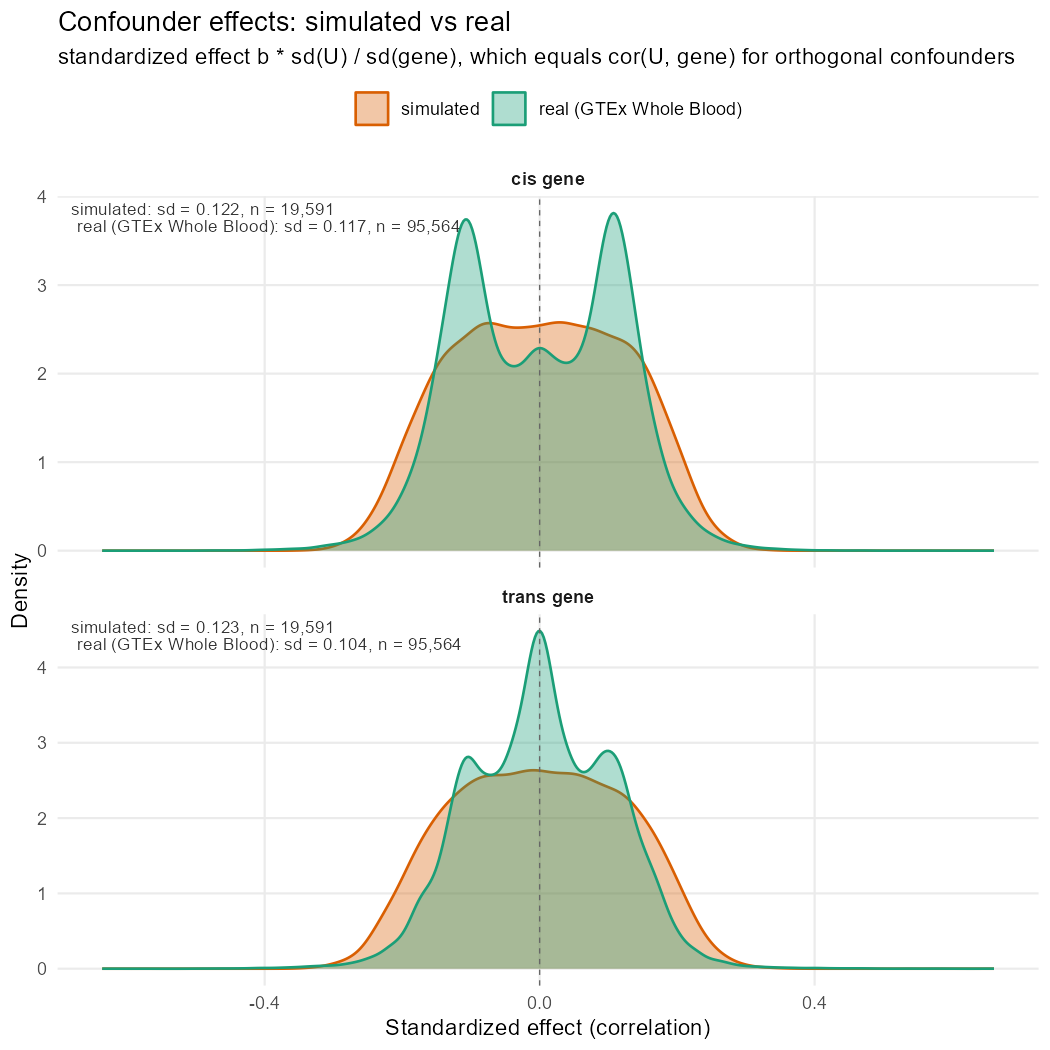
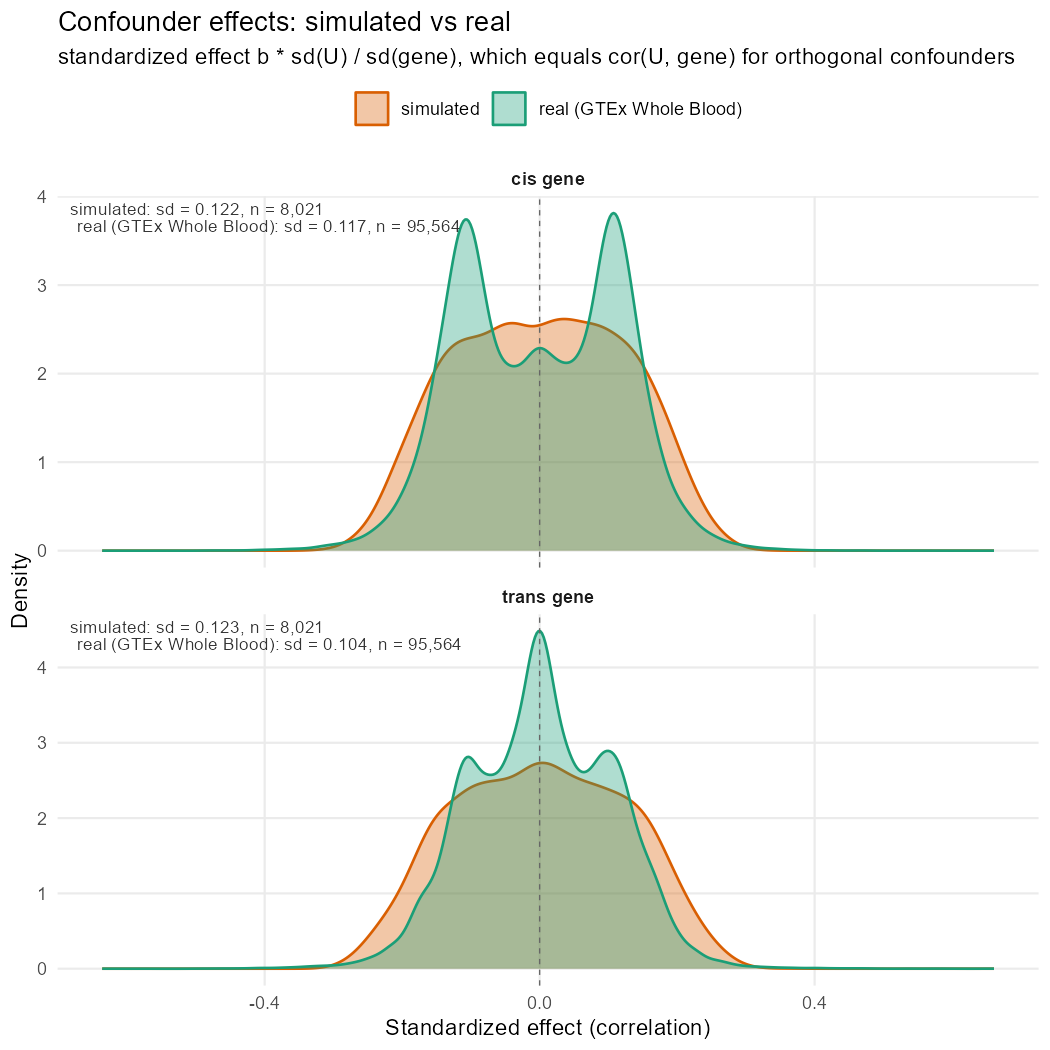
Document confounder selection diagnostics
Expand `METHODS.md` with a deeper analysis of confounder selection behavior in the revised simulation, including why n=50 remains problematic, why recall is lower than in the published study, and how the private covariate pool understates performance. Also add/update supporting plots for the confounder effect and R² comparisons.

diff --git a/bioinfo_revision/METHODS.md b/bioinfo_revision/METHODS.md
@@ -333,6 +333,35 @@ roughly `0.2 / pool_size`, so a 2.5× smaller pool moves the z cutoff only from
 4.42 to 4.22 — measured, the common-child pass rate at n = 1000 went 0.557 (50
 replicates) to 0.547 (20). What shrinks is per-cell precision, not sensitivity.
 
+### What the two settings actually select
+
+Measured end to end on the n = 50 group: 300 trios, 7,967 pool columns, **30.2
+min for both settings** from the single `get.conf.trios()` call.
+
+| setting | median selected/trio | range | trios with none |
+| --- | --- | --- | --- |
+| CS-q | 1 | 0–3 | 9 |
+| CS-α | **82** | 61–105 | 0 |
+
+Neither is close to the ~26 confounders actually acting on a trio, and they fail
+in opposite directions:
+
+- **CS-q is far too conservative here.** A q-value FDR across 300 × 7,967 ≈ 2.4M
+  tests leaves a median of one selected covariate per trio. Most of a trio's true
+  confounders go unadjusted.
+- **CS-α is unusable at n = 50.** α = 0.01 over 7,967 columns yields ~80 false
+  positives by construction (`7967 × 0.01 = 80`, against 82 observed), and at
+  n = 50 almost no true confounder clears p < 0.01 anyway — that needs
+  `|r| > 0.36`, while the true per-confounder effect is ~0.12. So essentially all
+  82 are false positives, handed to MRGN and MRPC as 82 covariates against 50
+  observations. Every such fit is rank-deficient, which is what `safely()` in
+  `run.group()` is absorbing.
+
+Both are consequences of the pooled private-covariate design rather than of the
+methods: each trio is scored against 7,967 columns of which ~28 are its own. The
+n = 50 CS-α arm in particular should be treated as uninformative rather than as a
+measurement of how MRGN or MRPC behave.
+
 ### Confounder selection has no power at n = 50
 
 `get.conf.trios()` finds no intermediate or common child variables in the n = 50
@@ -373,17 +402,20 @@ went 0.063 → 0.121 and `rZ` 0.130 → 0.268 against the pre-recalibration run 
 and the required sample sizes fell accordingly. Widening `b.snp` is the main
 lever, but the lower `U` bound pushes the same way (less `U` variance in `T1`
 leaves the SNP a larger share), and the two cannot be separated from the two
-saved runs. `Z` now
-clears the pooled threshold from about n = 273, so the n = 300, 670 and 1000
-groups detect common children in 33%, 49% and 56% of trios.
+saved runs. `Z` now clears the pooled threshold from about n = 260, so the
+n = 300, 670 and 1000 groups detect common children in 36%, 51% and 55% of trios.
 
-**The n = 50 group no longer returns nothing.** 6.3% of its trios now have a
-detectable common child, so `get.conf.trios()` should no longer raise "No common
-child or intermediate variables detected" and `select.confounders()` should no
-longer fall back to `filter_int_child = FALSE`. Confirm this on the next
-inference run via the `CSq.filter_int_child` / `CSa.filter_int_child` columns.
+**The n = 50 group no longer returns nothing — confirmed by running it.** 7.3% of
+its trios now carry a detectable common child, which is enough that
+`get.conf.trios()` passes the filtering step instead of raising "No common child
+or intermediate variables detected", and `select.confounders()` no longer falls
+back to `filter_int_child = FALSE`. This was the symptom that started the
+revision.
+
 Detection at n = 50 is still poor in absolute terms, so the group's confounder
-sets will contain colliders for most trios and should be caveated.
+sets will contain colliders for most trios and should be caveated in the
+analysis. Check `CSq.filter_int_child` / `CSa.filter_int_child` on each run:
+they record whether the fallback fired.
 
 Both blocks are capped above by `|cor(V1, T1)|`, since `W` and `Z` are downstream
 of `T1` and correlation multiplies along a path. Measured at n = 1000:
@@ -459,7 +491,241 @@ group should be caveated or excluded in the analysis.**
 
 ---
 
-## 5. Diagnostics recorded per dataset
+## 5. Why confounder selection now looks worse than in the published study
+
+The pre-revision simulation reported confounder-selection recall above 90%
+(`MRGN_v8.pdf`, lines 219–222: ">90% when the number of true confounders per trio
+was modest (<25)", dropping "to approximately 65% for trios with many (>25)").
+The revised simulation gets 52.9% at n = 670. **The whole difference is the
+confounder effect size, and the revised value is the honest one.**
+
+This section documents the comparison because the drop looks alarming and is
+easy to mistake for a regression in the pipeline.
+
+### The two runs are directly comparable
+
+`Simulation/sim_data_with_many_confounders.R` produced 300 trios at n = 670 — the
+same sample size and trio count as the revised n = 670 group.
+
+| | old many-confounder | revised n = 670 | real GTEx |
+| --- | --- | --- | --- |
+| sample size | 670 | 670 | 670 |
+| trios | 300 | 300 | 3,248 |
+| pooled covariates | 10,550 | 8,621 | 670 |
+| `conf.coef.ranges$U` | `c(0.15, 0.5)` | `c(0, 0.3)` | — |
+| `U_n` | 15–50 (median 34) | 1–50 (median 26) | 6–51 (median 30) |
+| `SD` | ≈0.63 (`b.med`-scaled) | 1 | — |
+| `b.snp` | `U(0.5, 1.5)` | `(0, 1.5]` stratified | — |
+| **median \|cor(U, T1)\|** | **0.149** | **0.098** | **0.101** |
+| **adjusted R²(T1 \| U)** | **0.830** | **0.370** | **0.412** |
+
+The old simulation carried **twice the confounding of real Whole Blood**; the
+revised one sits essentially on it, matched on both the aggregate `R²` and the
+per-confounder correlation.
+
+### Recall, same measurement on both
+
+Recall of a trio's own `U` block by CS-q (`adjust_by = "all"`, FDR 5%). The old
+columns are computed from the selection output saved with the paper
+(`confs_mrgn_mrpc_get_conf_out_all.RData`,
+`many_conf_data/confs_mrgn_mrpc_REG.RData`), not re-run.
+
+| true confounders | old 5k | old many-conf | revised n = 670 | revised n = 1000 |
+| --- | --- | --- | --- | --- |
+| ≤ 10 | 98.4% | — | 71.4% | 82.6% |
+| 10–15 | 95.5% | 96.2% | 61.1% | 75.3% |
+| 15–20 | — | 94.6% | 59.2% | 72.5% |
+| 20–25 | — | 93.2% | 54.9% | 72.5% |
+| 25–30 | — | 89.0% | 48.6% | 67.8% |
+| 30–35 | — | 84.9% | 48.3% | 66.0% |
+| 35–40 | — | 80.6% | 43.1% | 64.3% |
+| 40–45 | — | 75.9% | 42.9% | 62.4% |
+| 45–51 | — | 70.8% | 38.9% | 57.9% |
+| **overall** | **97.5%** | **83.9%** | **52.9%** | **70.2%** |
+
+The old columns reproduce Figure 3 of the manuscript. The revised curve has the
+**same shape shifted down ~30 points at every confounder count** — a uniform
+level shift, which already rules out anything count-dependent.
+
+### It is not sample size, pool size or multiplicity
+
+Sample size and trio count are identical by construction. The pools differ by
+22%, but what sets the Benjamini-Hochberg threshold is the *fraction* of tests
+that are true positives, and that is nearly the same:
+
+| | true positives | total tests | fraction |
+| --- | --- | --- | --- |
+| old many-conf | 300 × 34 = 10,200 | 3.17M | 0.00322 |
+| revised n = 670 | 300 × 26 = 7,800 | 2.59M | 0.00301 |
+
+Within 7% of each other, so both runs face effectively the same multiplicity
+burden.
+
+### It is the per-confounder effect size
+
+```
+OLD:  sd(T1) = sqrt(34 × 0.1158 + 0.375 + 0.63²) = 2.17   r = 0.340 / 2.17 = 0.157
+NEW:  sd(T1) = sqrt(26 × 0.0300 + 0.225 + 1.00²) = 1.42   r = 0.173 / 1.42 = 0.122
+```
+
+At n = 670 that is the difference between p ≈ 1e-4, which clears the ~1.6e-4
+threshold, and p ≈ 1e-2, which misses it by two orders of magnitude.
+
+The `U` coefficient interval is the dominant term but not the only one — `U_n`
+and `SD` also changed. Isolating the interval:
+
+| change applied | R²(T1 \| U) | per-confounder `r` |
+| --- | --- | --- |
+| old settings | 0.836 | 0.157 |
+| `U` interval only, `c(0.15,0.5)` → `c(0,0.3)` | 0.569 | 0.129 |
+| plus `U_n` 34 → 26 and `SD` 0.63 → 1 | 0.389 | 0.122 |
+
+So the interval accounts for roughly 80% of the move in `r` and two-thirds of the
+move in `R²`.
+
+### The controlled test
+
+Taking the **revised** n = 670 data and scaling only the true confounders' effect
+back to old strength, changing nothing else:
+
+| | recall |
+| --- | --- |
+| revised, as calibrated (R² 0.37) | 52.9% |
+| revised, scaled to R² ≈ 0.62 | 72.6% |
+| revised, scaled to old strength (R² ≈ 0.83) | **80.1%** |
+| old run, actually observed | **82.7%** |
+
+Scaling the confounders alone reproduces the old result on the new data. Nothing
+else is required to explain the gap.
+
+### What this means for the manuscript
+
+**With GTEx-realistic confounding, CS-q recovers about 53% of true confounders at
+n = 670 and 70% at n = 1000, not >90%.** The published figure is contingent on a
+confounding level roughly twice what Whole Blood shows. Matching real `R²`
+exactly (0.412 against the current 0.370) would not change this — that is a
+1.06× scaling of `r`, worth perhaps three points of recall.
+
+Two caveats to weigh alongside it:
+
+- **The benchmark is mildly circular.** The real PC effect pool is *conditional
+  on selection* — those are the PCs that FDR 0.05 already found. Generating from
+  that distribution and then asking CS-q to recover them should in principle give
+  high recall. That it gives 53% says the simulated selection problem is harder
+  than the real one, most plausibly because the real analysis scores each trio
+  against 670 shared PCs while the simulation uses 8,621 trio-private columns.
+- **The simulation does not run the procedure the paper applied to GTEx.**
+  `GTEx/data/PC_LRNA_PC_Selection_manu.R:127` uses `adjust_by = 'individual'`;
+  `select.confounders()` uses `'all'`. Worth about 2 points at n = 670 (52.9% →
+  ~55%) but it is a different estimator, and the mismatch should be reconciled
+  before the manuscript claims to evaluate the deployed method.
+
+### Reproducing this comparison
+
+Not part of the pipeline; run ad hoc. `get.conf.trios()`'s `reg.pvalues` is a
+2-df F test of `lm(covariate ~ T1 + T2)`, so the whole matrix has a closed form
+in `cor(cov, T1)`, `cor(cov, T2)` and `cor(T1, T2)` and can be computed
+vectorized in seconds instead of the ~40 min the package takes. Validated
+against the saved old run: the vectorized route gives 82.7% where the saved
+`get.conf.trios()` output gives 83.9%, the 1.2-point gap being the
+`filter_int_child` step the shortcut skips.
+
+
+## 6. The private covariate pool, and what it costs
+
+§5 shows the confounder effect size explains the drop from the published recall.
+This section covers a second, independent understatement — the **structure** of
+the covariate pool — which has been present in every version of the simulation,
+old and new, and so explains none of that gap while depressing both sides of it.
+
+Every trio generates its own `U`/`W`/`Z` columns and contributes them to the
+group's shared pool. No covariate is ever a candidate confounder for more than
+the one trio that produced it. The real analysis and Yang et al. 2017 both do the
+opposite: one modest pool of candidates that many trios draw on.
+
+| | distinct covariates | trios per covariate | candidates per trio | signal density |
+| --- | --- | --- | --- | --- |
+| this simulation, n = 670 | 8,621 | 1 | 8,621 | **0.3%** |
+| real GTEx Whole Blood | 670 PCs | ~142 | 670 | **4.5%** |
+| Yang et al. 2017 | 350 | many | 350 | ~0.5–5% |
+
+Signal density — a trio's true confounders as a fraction of the candidates it is
+scored against — is what sets the Benjamini-Hochberg threshold, and it is 15×
+lower here than in the real analysis.
+
+### Measured cost
+
+Same simulated data, same effects, same `n`; each trio keeps its own confounders
+and is given a random draw of null columns to hit the target pool width, which
+reproduces a shared pool's density without altering a single effect size.
+
+CS-q recall at n = 670, 300 trios:
+
+| | private pool (8,621) | shared-like pool (670) |
+| --- | --- | --- |
+| calibrated confounders, R² = 0.37 | **52.9%** | **66.2%** |
+| old-strength confounders, R² = 0.83 | 80.1% | 85.7% |
+
+At n = 1000 the same manipulation moves recall from 70.2% to 79.1%.
+
+**The private pool costs about 13 points at realistic confounder strength but
+only 6 at the old strength.** Strong effects clear any threshold, so multiplicity
+barely bites; weak ones sit right at it. The design has therefore been hiding its
+own cost — it looked harmless in the published simulation precisely because the
+confounders there were twice as strong as real ones.
+
+Combining with §5, the most realistic cell — GTEx-calibrated confounders and
+GTEx-like density — is **66.2% at n = 670**. That is probably the closest
+available estimate of what confounder selection achieves on the real Whole Blood
+data, where there is no ground truth to check against.
+
+`adjust_by` does not rescue this, and for a reason worth recording: both schemes
+see the *same* signal density. `"all"` sees `U_n/P` true positives across all
+tests; `"individual"` corrects within a covariate column and sees
+`(NT × U_n / P) / NT = U_n/P`. Identical. Measured, the two converge as the pool
+becomes shared — 7.2 points apart under a private pool, 1.5 points under a shared
+one. `"individual"`'s small edge is π₀-estimation behaviour, not structure.
+
+### The deeper mismatch: every covariate has exactly one role
+
+Density is the measurable part. The structural problem is larger.
+
+**In the real data a single PC can be a confounder for trio A and a common child
+for trio B.** That is the entire premise of `filter_int_child`: it flags
+covariates correlated with *many variants across the group*, on the logic that a
+covariate sitting downstream of many genes will show up that way.
+
+**The current design makes that impossible.** Every covariate belongs to exactly
+one trio and holds exactly one role, permanently. Each `W` and `Z` therefore
+correlates with precisely one variant out of 300 — which is why the filter has so
+little to work with (§4), and it is arguably a more serious mismatch than the
+density arithmetic. **The filter is not being tested on the problem it was
+designed for.**
+
+This reframes the n = 50 filter result in §4. That section attributes the failure
+to power, effect size and multiplicity, all of which hold. But even at n = 1000
+with a strong SNP the filter is being asked to detect a covariate that is
+downstream of a single trio, when the statistic it computes is designed to find
+covariates downstream of many. A shared pool would not merely raise the pass
+rates; it would change what the filter is being evaluated on.
+
+### What a shared design would require
+
+Not implemented. Recorded so the decision is informed:
+
+- **The pool must be per sample-size group.** Covariates have to share the trios'
+  row dimension, so the n = 670 group needs its own 670-row pool. This is natural
+  — selection already runs per group.
+- **`W` and `Z` must come from the shared pool too**, not stay trio-private.
+  Otherwise the design still has no covariate holding different roles for
+  different trios, and the point above is unaddressed.
+- **Trios within a group stop being independent.** Sharing confounders is exactly
+  what makes the design realistic, but replicates within a sample-size group
+  would no longer be i.i.d., which affects standard errors on the per-cell
+  accuracies in §2.
+
+
+## 7. Diagnostics recorded per dataset
 
 `params` carries every generating parameter plus `n.resamples` and
 `R2.T1.U` / `R2.T2.U`.
@@ -478,7 +744,7 @@ on PCs only.
 
 ---
 
-## 6. Open items
+## 8. Open items
 
 - The real effect pools are **conditional on selection** (those PCs were retained
   at FDR 0.05), so they describe confounders strong enough to have been found.
@@ -486,7 +752,7 @@ on PCs only.
 - The cis/trans asymmetry (§3) is not reproduced.
 - `conf.coef.ranges` is a raw slope while the bound is a correlation (§3), so the
   nominal 0.3 is calibrated only for the current `U_n`, `SD` and `b.snp`.
-- `conf.r.squared()` reports unadjusted `R²` (§5).
+- `conf.r.squared()` reports unadjusted `R²` (§6).
 - The low-MAF resampling distortion (§2) is unaddressed.
 - The before/after comparisons against
   `simulated_trios_precalibration.RData` (§3, §4) confound two changes — the `U`
